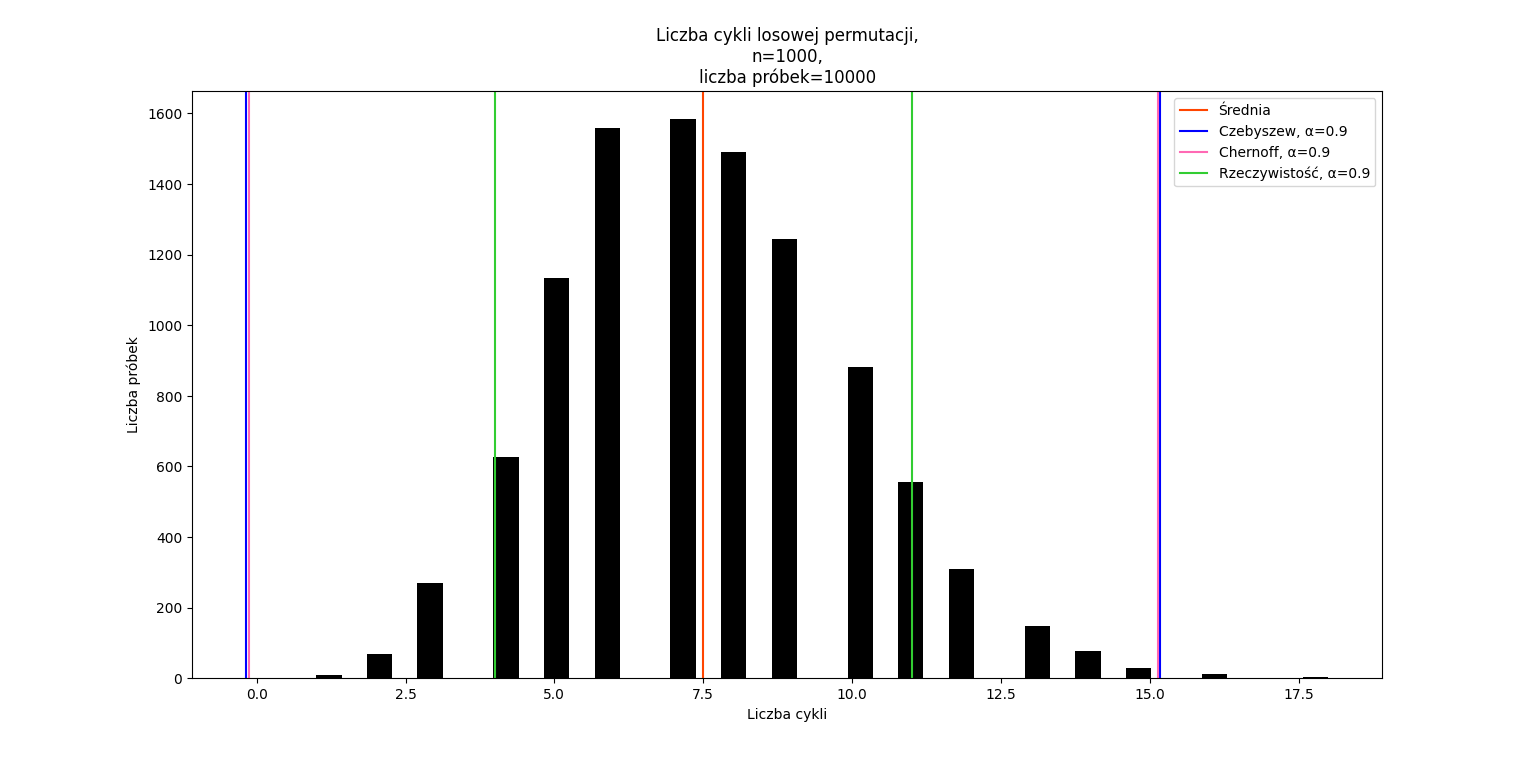
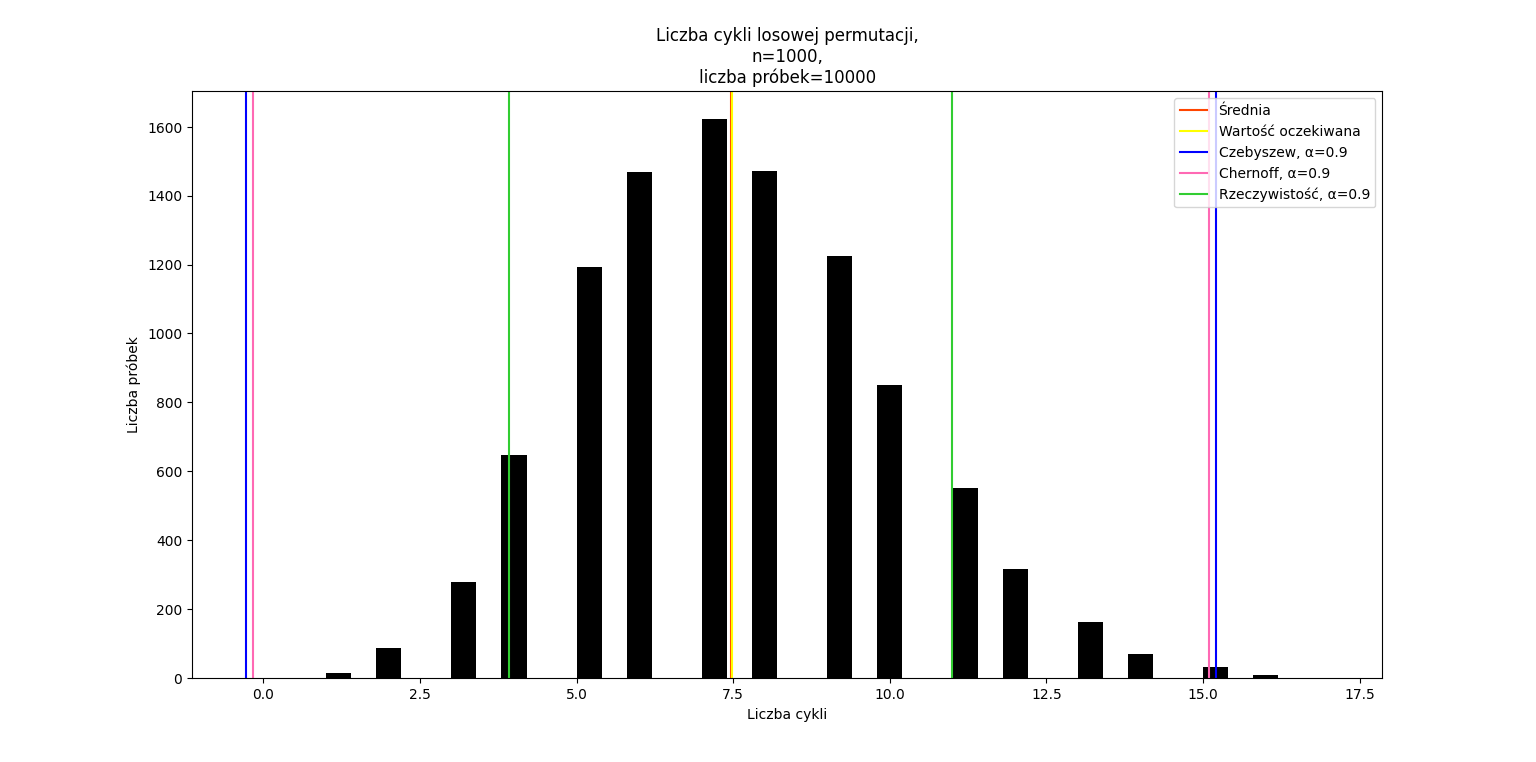
cycles expected value added

diff --git a/random_permutations.py b/random_permutations.py
@@ -10,6 +10,9 @@ import matplotlib.pyplot as plt
 import statistics
 
 
+def Harmonic_Number(n):
+    return 0.5772156649 + math.log(n)
+
 def random_permutation(n):
     a=[]
     for i in range(0,n): a.append(i+1)
@@ -57,8 +60,8 @@ def cycles(permutation):
 
 nMin=5
 nMax=1000
-nStep=1
-nRepeats=1
+nStep=10
+nRepeats=10
 alfa=0.1 #0.1=90%
 #fp_big_sum=0
 draw=True
@@ -68,21 +71,29 @@ for n in range(nMin,nMax,nStep):
     summ=0
     for r in range(0,nRepeats): 
         a = random_permutation(n)
-        fp = fixed_points(a)
-     #   cc = cycles(a)
+     #   fp = fixed_points(a)
+        cc = cycles(a)
      #   rc=records(a)
-        results.append(fp)
-        summ += fp
+        results.append(cc)
+        summ += cc
      #   fp_big_sum += fp
     if draw==True:
-        plt.scatter(n,summ/nRepeats,color='k')
+        if n==nMin:
+            plt.scatter(n,summ/nRepeats,color='k',label='liczba cykli ('+str(nRepeats)+' powtórzeń)')
+            plt.scatter(n,Harmonic_Number(n), color='hotpink',label='oczekiwana liczba cykli')
+        else:
+            plt.scatter(n,summ/nRepeats,color='k')
+            plt.scatter(n,Harmonic_Number(n), color='hotpink')
 if draw==True:
     plt.xlim(left=0)
     plt.xlim(right=nMax)
     plt.xlabel('n')
-    plt.ylabel('fixed points')
-    plt.title('Liczba punktów stałych losowej permutacji')
+    plt.ylabel('cycles')
+    plt.title('Liczba cykli losowej permutacji')
+    plt.legend()
 #print('Average number of fixed points:',fp_big_sum/(math.ceil((nMax-nMin)/nStep)*nRepeats))
+
+'''
 deltaczeb=math.sqrt(statistics.variance(results)/alfa)
 avgres=statistics.mean(results)
 yczeb1=2*[avgres+deltaczeb]
@@ -106,20 +117,22 @@ plt.plot(xrange,ychern1,color='hotpink',label='Chernoff, α='+str(1-alfa))
 plt.plot(xrange,ychern2,color='hotpink')
 yavg=2*[avgres]
 plt.plot(xrange,yavg,color='orangered',label='Średnia')
-
+'''
 ## Histogram ##
 n=1000
 nrep=1000
 #plt.scatter(n,results[n-nMin],color='crimson',label='Badany punkt') # zaznaczenie badanego punktu
-plt.legend()
+#plt.legend()
 plt.show()
 hist_data=[]
 for r in range(0,nrep):
     p=random_permutation(n)
-    hist_data.append(fixed_points(p))
-plt.hist(hist_data,color='k')
+    hist_data.append(cycles(p))
+plt.hist(hist_data,bins=40,color='k')
 avg=statistics.mean(hist_data)
 plt.axvline(x=avg,color='orangered',label='Średnia')
+expected_cycles=7.48547086
+plt.axvline(x=expected_cycles,color='yellow',label='Wartość oczekiwana')
 # Czebyszew
 alfa=0.9
 deltaczeb=math.sqrt(statistics.variance(hist_data)/(1-alfa))
@@ -127,8 +140,8 @@ plt.axvline(x=avg+deltaczeb,color='b',label='Czebyszew, α='+str(alfa))
 plt.axvline(x=avg-deltaczeb,color='b')
 # Chernoff # !!! błąd jest ewidentny, bo lepiej niż rzeczywistość !!!
 #deltachern=3.31621889700067 # punkty stałe # uwaga zmienić też label na wykresie #0.9, 0.85, 0.75: 3.31621889700067, 3.03243077853728, 2.65284714023292
-deltachern=2.82210997581402 # punkty stałe # uwaga zmienić też label na wykresie #0.9, 0.85, 0.75: 2.82210997581402, 2.50992648434853, 2.08134311480557
-#deltachern=7.6311551501992360998 # cykle #0.9: 1.02051624557677
+#deltachern=2.82210997581402 # punkty stałe # uwaga zmienić też label na wykresie #0.9, 0.85, 0.75: 2.82210997581402, 2.50992648434853, 2.08134311480557
+deltachern=7.6311551501992360998 # cykle #0.9: 1.02051624557677
 #deltachern=55.6957443661478617524 # rekordy #0.9: 55.6957443661478617524
 plt.axvline(x=avg+deltachern,color='hotpink',label='Chernoff, α=0.9')
 plt.axvline(x=avg-deltachern,color='hotpink')
@@ -141,8 +154,8 @@ deltarzecz=pomrzecz[math.ceil((alfa)*len(pomrzecz))]
 plt.axvline(x=avg+deltarzecz,color='limegreen',label='Rzeczywistość, α='+str(alfa))
 plt.axvline(x=avg-deltarzecz,color='limegreen')
 
-plt.title('Liczba punktów stałych losowej permutacji,\nn='+str(n)+ ',\nliczba próbek='+str(nrep))
-plt.xlabel('Liczba punktów stałych')
+plt.title('Liczba cykli losowej permutacji,\nn='+str(n)+ ',\nliczba próbek='+str(nrep))
+plt.xlabel('Liczba cykli')
 plt.ylabel('Liczba próbek')
 plt.legend()
 plt.show()
